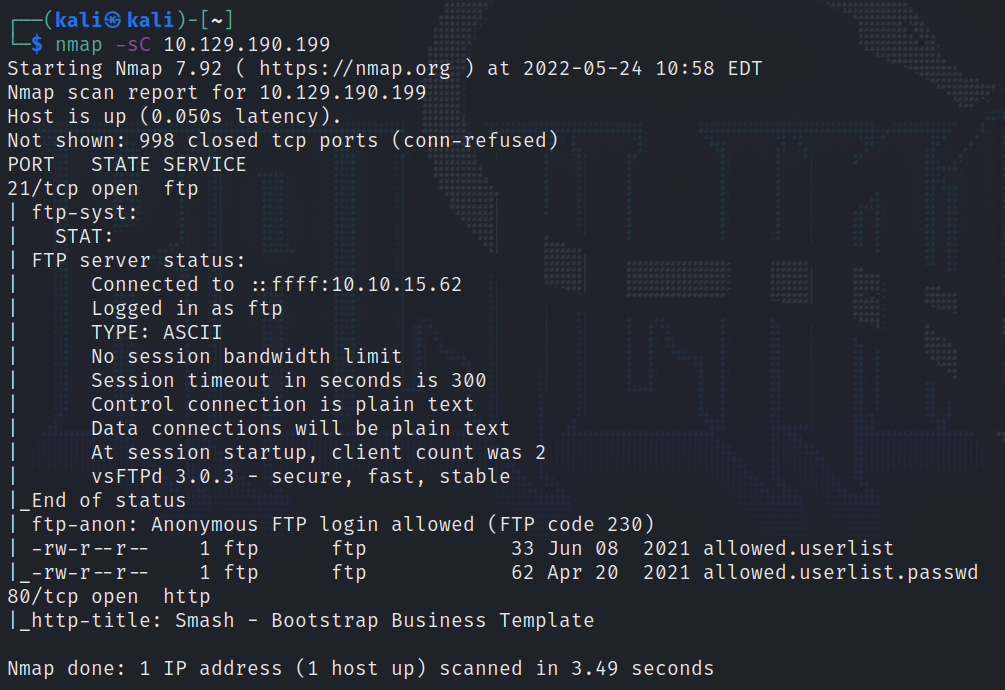
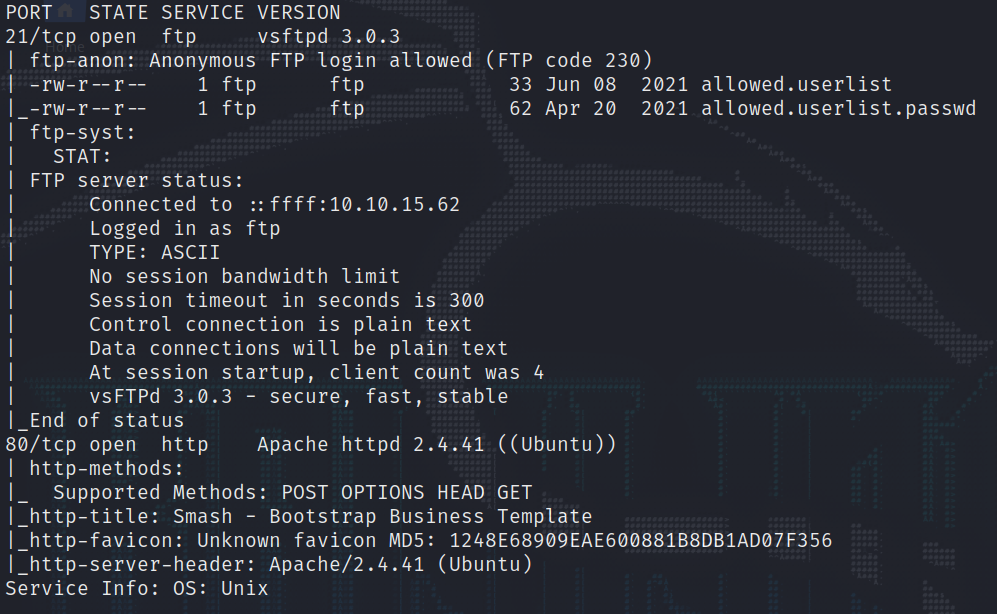
Questions 1-6 done

Changed region(s): [[0.0, 0.0, 0.995, 0.9902]]

diff --git a/Crocodile/README.md b/Crocodile/README.md
@@ -10,11 +10,20 @@ This is my eigth machine when learning the basics of penetration testing. Tags i
 ## <ins>**Questions**
 
 * [questions 1-3](Misc/questions_1.PNG)
+* [questions 4-6](Misc/questions_2.PNG)
 
 ## <ins>**Tasks**
 
-For the first questions you have to use nmap with -sC switch and look the output. 
+For the first questions you have to use nmap and look the output.
 
 ![](Misc/nmap.PNG)
+
+After this you have to use ftp command. From the previous picture we can see that you can get in the ftp as anonymous user so let us try that and see if we can get any files from there.
+
+![](Misc/ftp.PNG)
+
+We got in and can download two files. Let us download those and then see what usernames we got in the file.
+
+![](Misc/usernames.PNG)
 
 ## <ins>**Flag**
